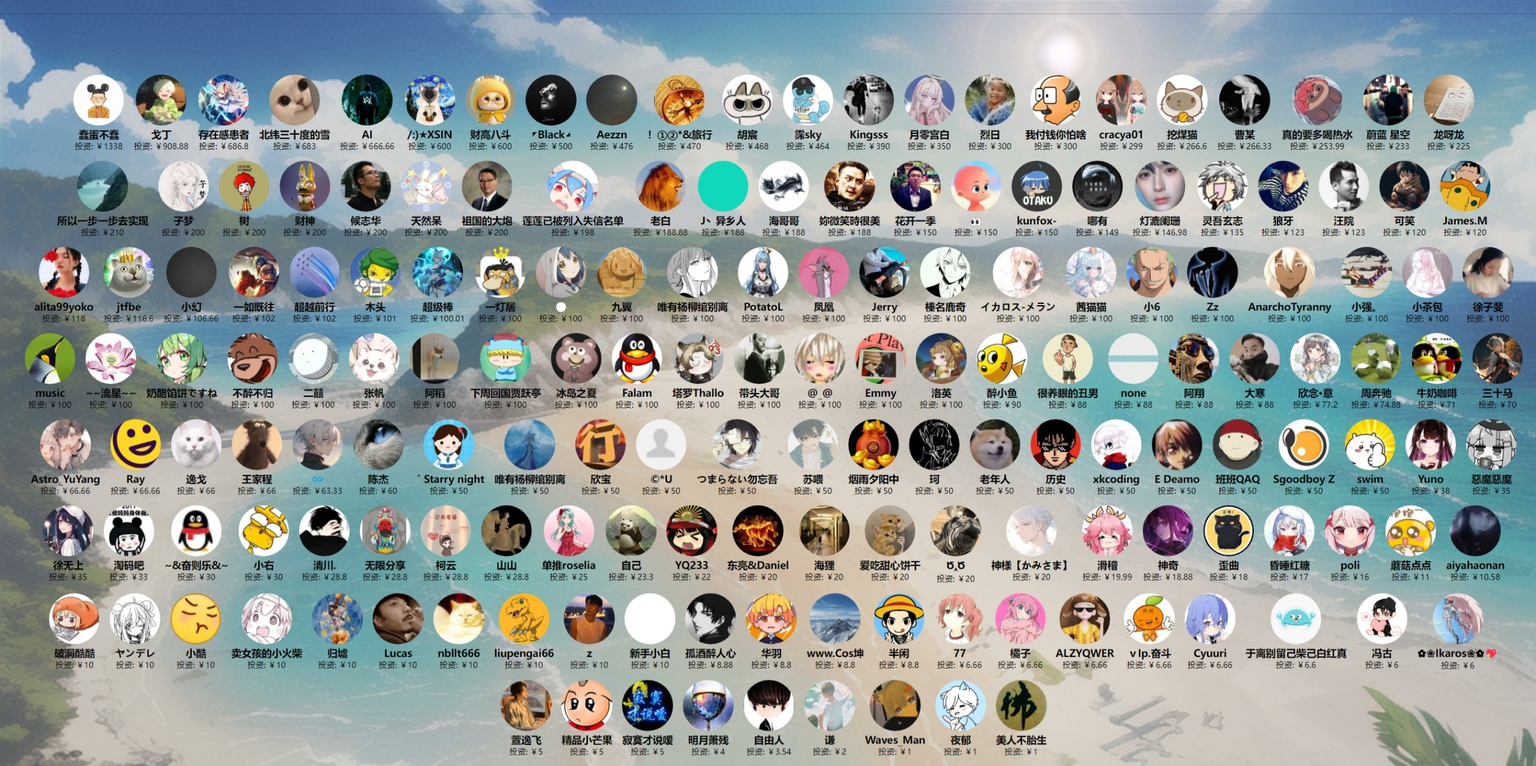
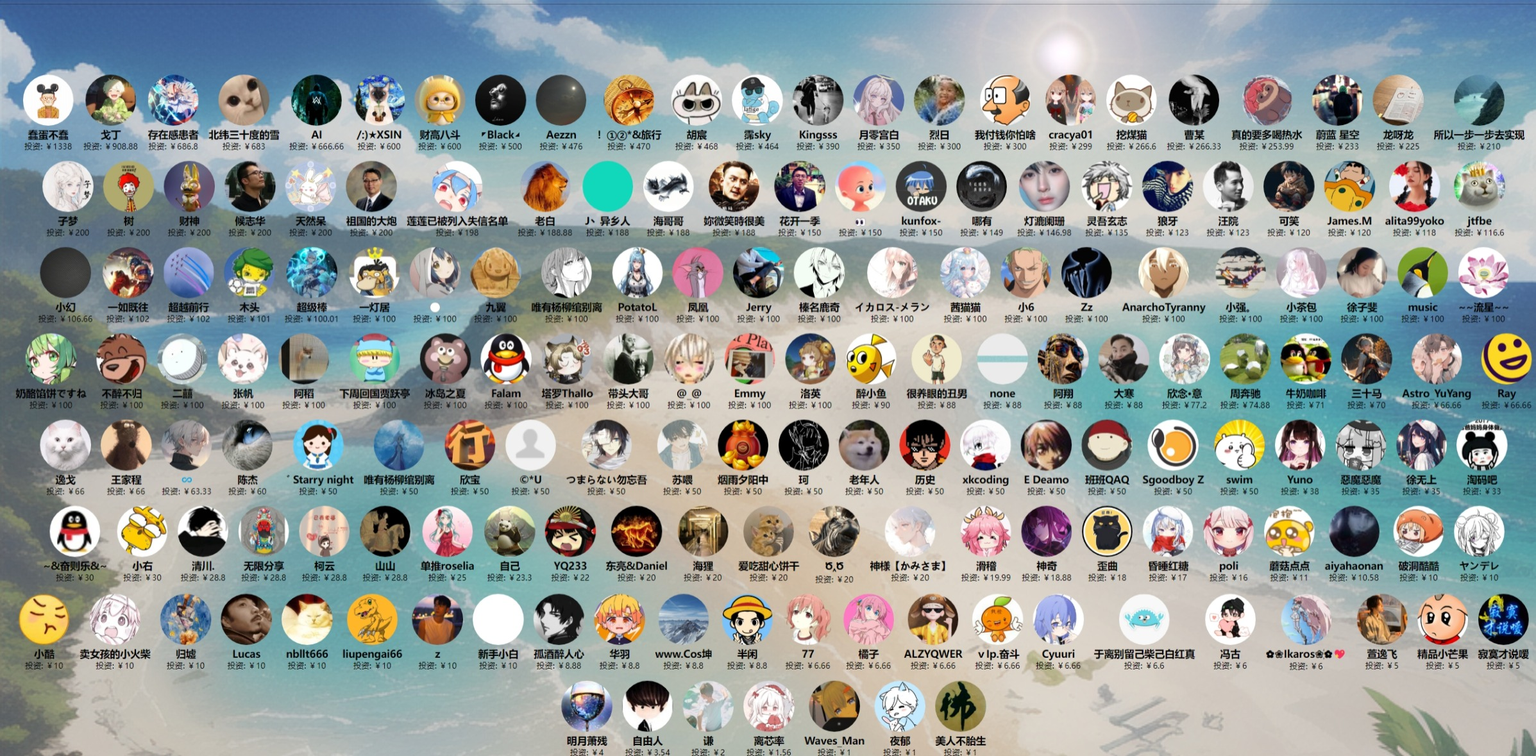
更新：投资人更新

diff --git a/Scripts/直播ws脚本/洛曦 直播弹幕监听 转发至本地WS服务端.js b/Scripts/直播ws脚本/洛曦 直播弹幕监听 转发至本地WS服务端.js
@@ -6,6 +6,7 @@
 // @description  Github：https://github.com/Ikaros-521/AI-Vtuber/tree/main/Scripts/%E7%9B%B4%E6%92%ADws%E8%84%9A%E6%9C%AC
 // @author       Ikaros
 // @match        https://www.douyu.com/*
+// @match        https://anchor.douyin.com/*
 // @match        https://live.kuaishou.com/u/*
 // @match        https://live.kuaishou.com/u/*
 // @match        https://mobile.yangkeduo.com/*
@@ -98,7 +99,12 @@
             console.log("当前直播平台：微信视频号");
             showMessage("当前直播平台：微信视频号");
             wsUrl = "ws://127.0.0.1:5001";
+        } else if (hostname === "anchor.douyin.com") {
+            console.log("当前直播平台：抖音");
+            showMessage("当前直播平台：抖音");
+            wsUrl = "ws://127.0.0.1:5001";
         }
+
 
         function connectWebSocket() {
             // 创建 WebSocket 连接，适配服务端
@@ -517,6 +523,73 @@
         } else if (hostname === "channels.weixin.qq.com") {
             // 选择需要观察变化的节点
             targetNode = document.querySelector(".comment__list");
+
+            // 创建观察器实例
+            my_observer = new MutationObserver((mutations) => {
+                mutations.forEach((mutation) => {
+                    console.log(mutation);
+                    // console.log(mutation.type);
+                    // 这里处理新增的DOM元素
+                    if (mutation.type === "childList") {
+                        mutation.addedNodes.forEach((node) => {
+                            // 判断是否是新增的弹幕消息
+                            if (node.classList.contains("vue-recycle-scroller__item-view")) {
+                                // 新增的动态DOM元素处理
+                                console.log("Added node:", node);
+
+                                const spans = node.getElementsByTagName("span");
+
+                                let message_type = "";
+                                let username = "";
+                                let content = "";
+
+                                console.log(spans.length);
+
+                                for (let i = 0; i < spans.length; i++) {
+                                    if (spans[i].classList.contains("message-type")) {
+                                        const targetSpan = spans[i];
+                                        // 获取用户名
+                                        let tmp = targetSpan.textContent.trim().slice(0, -1);
+                                        if (tmp != "")
+                                            message_type = targetSpan.textContent.trim().slice(0, -1);
+                                    }
+
+                                    if (i == (spans.length - 2)) {
+                                        const targetSpan = spans[i];
+                                        // 获取用户名
+                                        let tmp = targetSpan.textContent.trim().slice(0, -1);
+                                        if (tmp != "")
+                                            username = tmp;
+                                    } else if (i == (spans.length - 1)) {
+                                        const targetSpan = spans[i];
+                                        // 获取弹幕
+                                        let tmp = targetSpan.textContent.trim();
+                                        if (tmp != "")
+                                            content = tmp;
+                                    }
+                                }
+
+                                console.log(username + ":" + content);
+                                showMessage("[弹幕消息] " + username + ":" + content, 'info');
+
+                                // 获取到弹幕数据
+                                if (username != "" && content != "") {
+                                    const data = {
+                                        type: "comment",
+                                        username: username,
+                                        content: content,
+                                    };
+                                    console.log(data);
+                                    my_socket.send(JSON.stringify(data));
+                                }
+                            }
+                        });
+                    }
+                });
+            });
+        } else if (hostname === "anchor.douyin.com") {
+            // 选择需要观察变化的节点
+            targetNode = document.querySelector(".ReactVirtualized__Grid__innerScrollContainer");
 
             // 创建观察器实例
             my_observer = new MutationObserver((mutations) => {

diff --git a/docs/投资人/index.html b/docs/投资人/index.html
@@ -891,6 +891,11 @@
             avatar: "https://images.cnblogs.com/cnblogs_com/ikaros-521/2328032/o_250113011118_16.png",
             amount: "100"
         },
+        {
+            name: "离芯率",
+            avatar: "https://images.cnblogs.com/cnblogs_com/ikaros-521/2328032/o_250125064918_QQ%E5%9B%BE%E7%89%8720250125144640.jpg",
+            amount: "1.56"
+        }
     ];
 
     // 对投资方数据按投资金额（amount）进行降序排序

diff --git a/main.py b/main.py
@@ -613,7 +613,7 @@ def start_server():
                             data["insert_index"] = -1
                             my_handle.reread_handle(data)
                     else:
-                        # 如果启用了“打断对话”功能
+                        # 如果启用了"打断对话"功能
                         if config.get("talk", "interrupt_talk", "enable"):
                             # 判断文本内容是否包含中断词
                             interrupt_word = common.find_substring_in_list(
@@ -2527,12 +2527,18 @@ def start_server():
         # 等待子线程结束
         schedule_thread.join()
     elif platform == "dy2":
-        # 源自：douyinLiveWebFetcher
-        import gzip
-        import string
+        from protobuf.douyin import *
+        
+        # 这里填一个已登录账号的cookie。不填cookie也可以连接，但是收到弹幕的用户名会打码，UID会变成0
+        SESSDATA = ""
 
-        import requests
-        import websocket
+        session: Optional[aiohttp.ClientSession] = None
+        
+        # 支持 wss 连接
+        if config.get("dy2", {}).get("use_wss", False):
+            ws_url = "wss://127.0.0.1:5001"
+        else:
+            ws_url = "ws://127.0.0.1:5001"
 
         def generateMsToken(length=107):
             """
